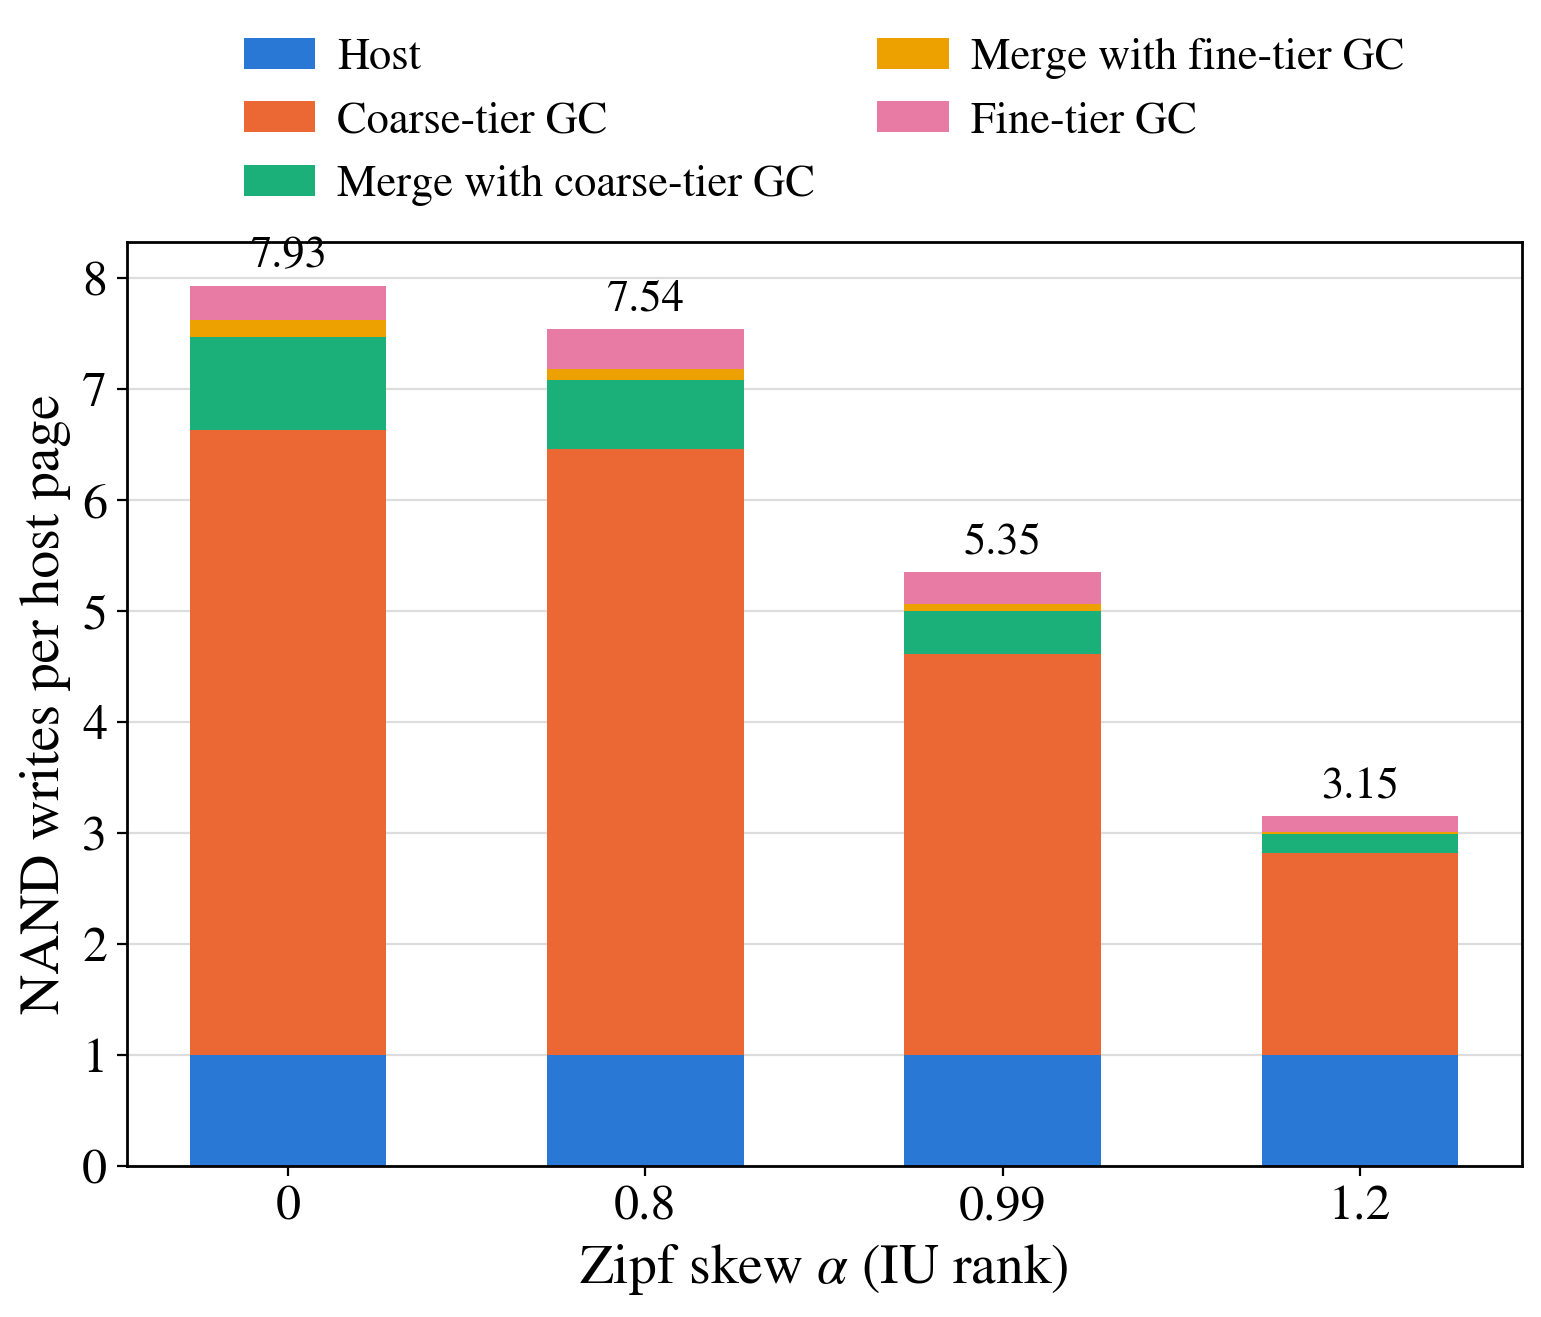
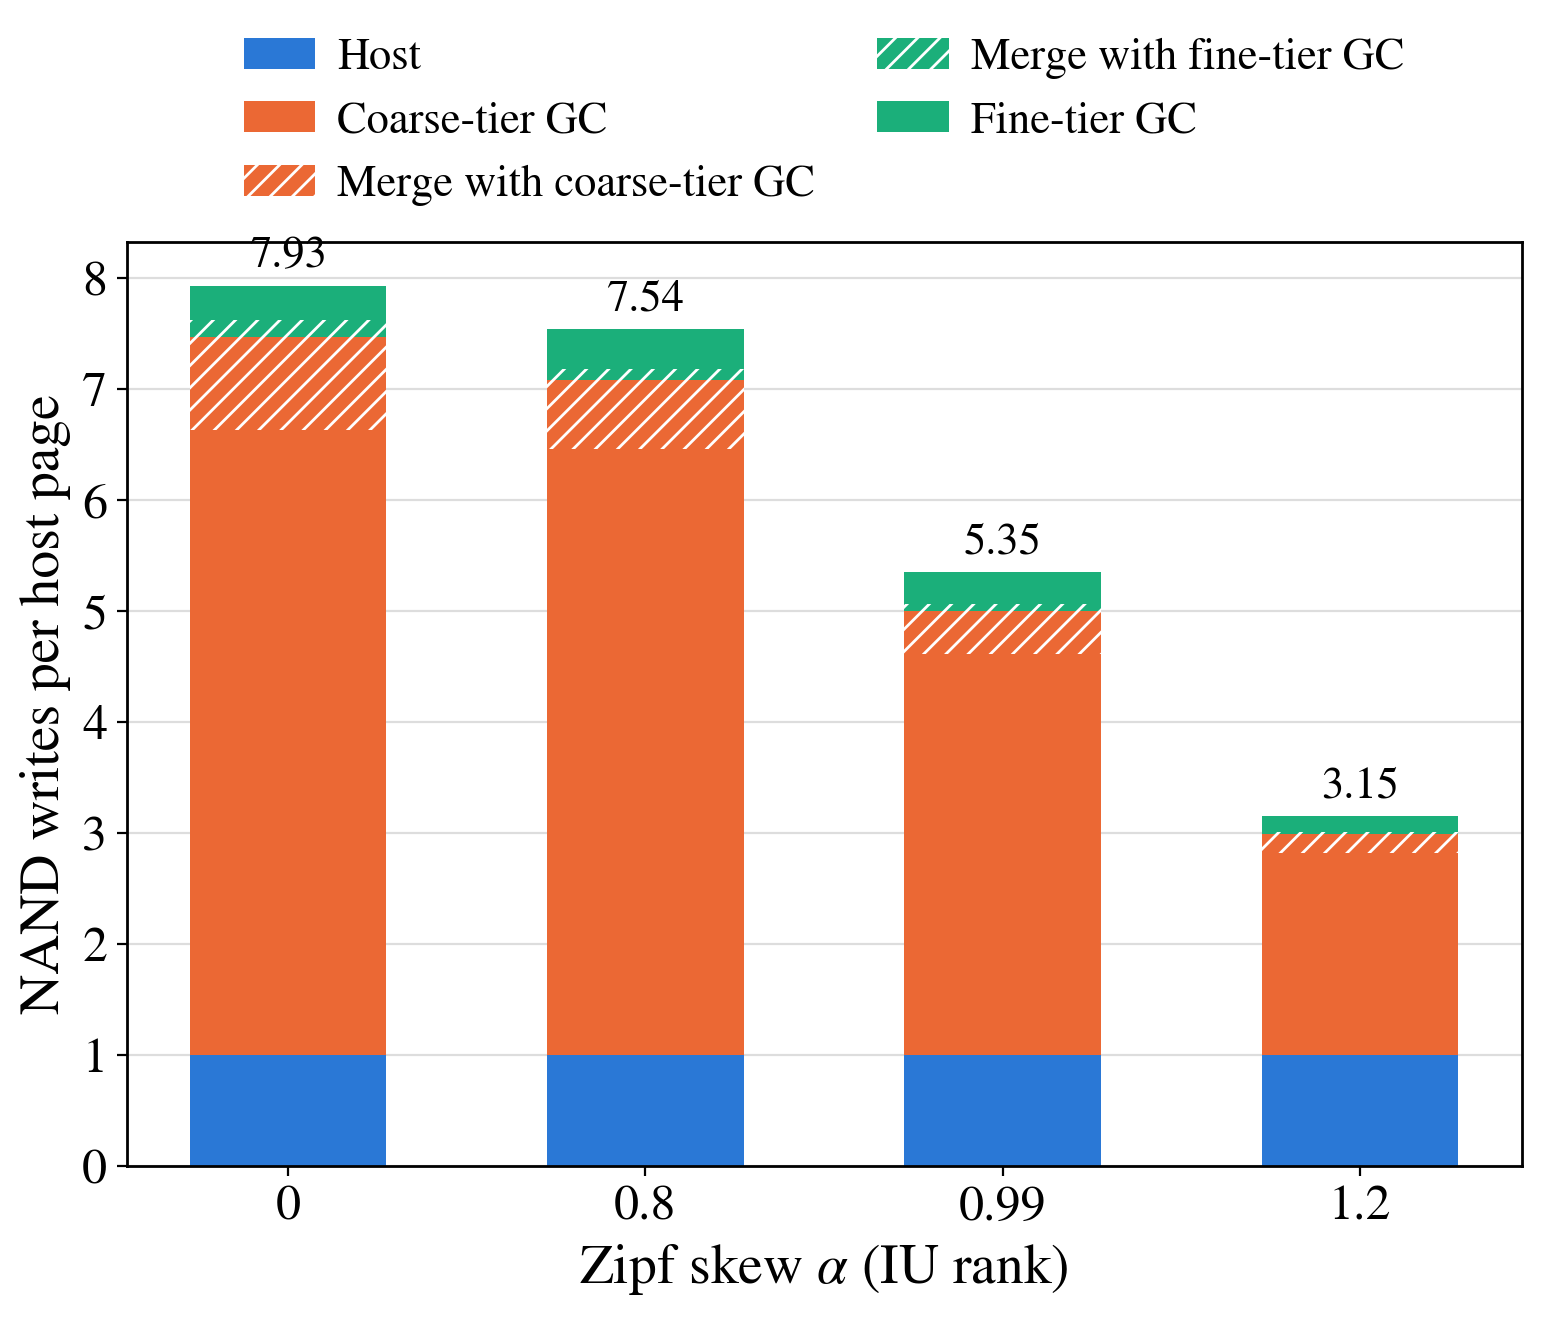
Recolor write-breakdown figures: hue = tier, hatch = merge (palette validated)

diff --git a/tools/plot.py b/tools/plot.py
@@ -186,20 +186,21 @@ def fig_ram():
 
 
 def fig_breakdown_proposed():
-    parts = [("host", "Host", "#2a78d6"),
-             ("cgc_clean", "Coarse-tier GC", "#eb6834"),
-             ("cgc_refold", "Merge with coarse-tier GC", "#1baf7a"),
-             ("fold", "Merge with fine-tier GC", "#eda100"),
-             ("finegc", "Fine-tier GC", "#e87ba4")]
+    parts = [("host", "Host", "#2a78d6", None),
+             ("cgc_clean", "Coarse-tier GC", "#eb6834", None),
+             ("cgc_refold", "Merge with coarse-tier GC", "#eb6834", "///"),
+             ("fold", "Merge with fine-tier GC", "#1baf7a", "///"),
+             ("finegc", "Fine-tier GC", "#1baf7a", None)]
     fig, ax = plt.subplots(figsize=(9, 6))
     x = np.arange(len(ZS))
     bottom = np.zeros(len(ZS))
-    for key, label, color in parts:
+    for key, label, color, hatch in parts:
         vals = []
         for z in ZS:
             r = load(CANON, f"proposed_z{z}.json")
             vals.append(r["prog"].get(key, 0) / r["host_pages"])
-        ax.bar(x, vals, 0.55, bottom=bottom, label=label, color=color)
+        ax.bar(x, vals, 0.55, bottom=bottom, label=label, color=color, hatch=hatch,
+               edgecolor="white" if hatch else "none", linewidth=0)
         bottom += np.array(vals)
     for xi, tot in zip(x, bottom):
         ax.annotate(f"{tot:.2f}", (xi, tot), ha="center", va="bottom", fontsize=16,
@@ -216,11 +217,11 @@ def fig_breakdown_proposed():
 
 def fig_breakdown_sizes():
     """Same write breakdown as fig4, for the small-heavy / large-heavy size mixes."""
-    parts = [("host", "Host", "#2a78d6"),
-             ("cgc_clean", "Coarse-tier GC", "#eb6834"),
-             ("cgc_refold", "Merge with coarse-tier GC", "#1baf7a"),
-             ("fold", "Merge with fine-tier GC", "#eda100"),
-             ("finegc", "Fine-tier GC", "#e87ba4")]
+    parts = [("host", "Host", "#2a78d6", None),
+             ("cgc_clean", "Coarse-tier GC", "#eb6834", None),
+             ("cgc_refold", "Merge with coarse-tier GC", "#eb6834", "///"),
+             ("fold", "Merge with fine-tier GC", "#1baf7a", "///"),
+             ("finegc", "Fine-tier GC", "#1baf7a", None)]
     groups = [("small-heavy\n" + r"$\alpha$=0", "small", "0"),
               ("small-heavy\n" + r"$\alpha$=0.99", "small", "0.99"),
               ("large-heavy\n" + r"$\alpha$=0", "large", "0"),
@@ -228,12 +229,13 @@ def fig_breakdown_sizes():
     fig, ax = plt.subplots(figsize=(9.5, 6))
     x = np.arange(len(groups))
     bottom = np.zeros(len(groups))
-    for key, label, color in parts:
+    for key, label, color, hatch in parts:
         vals = []
         for _, d, z in groups:
             r = load(SIZES, f"proposed_{d}_z{z}.json")
             vals.append(r["prog"].get(key, 0) / r["host_pages"])
-        ax.bar(x, vals, 0.55, bottom=bottom, label=label, color=color)
+        ax.bar(x, vals, 0.55, bottom=bottom, label=label, color=color, hatch=hatch,
+               edgecolor="white" if hatch else "none", linewidth=0)
         bottom += np.array(vals)
     for xi, tot in zip(x, bottom):
         ax.annotate(f"{tot:.2f}", (xi, tot), ha="center", va="bottom", fontsize=16,
@@ -275,21 +277,23 @@ def fig_breakdown_policies():
 
 # Unified write-source stack used by the policy-comparison figures.
 # page4k / DFTL map everything at 4 KB, so their GC is counted as fine-tier GC.
-STACK = [("host",       ["host"],               "Host",                      "#2a78d6"),
-         ("rmw",        ["rmw"],                "RMW",                       "#7a5195"),
-         ("coarse",     ["cgc_clean"],          "Coarse-tier GC",            "#eb6834"),
-         ("refold",     ["cgc_refold"],         "Merge with coarse-tier GC", "#1baf7a"),
-         ("fold",       ["fold", "unfold"],     "Merge with fine-tier GC",   "#eda100"),
-         ("fine",       ["finegc", "pgc"],      "Fine-tier GC",              "#e87ba4"),
-         ("map",        ["map"],                "Map write",                 "#4a3aa7")]
+STACK = [("host",   ["host"],           "Host",                      "#2a78d6", None),
+         ("rmw",    ["rmw"],            "RMW",                       "#4a3aa7", None),
+         ("coarse", ["cgc_clean"],      "Coarse-tier GC",            "#eb6834", None),
+         ("refold", ["cgc_refold"],     "Merge with coarse-tier GC", "#eb6834", "///"),
+         ("fold",   ["fold", "unfold"], "Merge with fine-tier GC",   "#1baf7a", "///"),
+         ("fine",   ["finegc", "pgc"],  "Fine-tier GC",              "#1baf7a", None),
+         ("map",    ["map"],            "Map write",                 "#8a5a00", None)]
 
 
 def _stack(ax, xs, recs, width=0.6, annotate=True, stack=None, legend=True):
     bottom = np.zeros(len(recs))
-    for _, keys, label, color in (stack or STACK):
+    for _, keys, label, color, hatch in (stack or STACK):
         vals = np.array([sum(r["prog"].get(k, 0) for k in keys) / r["host_pages"] for r in recs])
         if vals.max() > 0:
-            ax.bar(xs, vals, width, bottom=bottom, color=color, label=label if legend else None)
+            ax.bar(xs, vals, width, bottom=bottom, color=color, hatch=hatch,
+                   edgecolor="white" if hatch else "none", linewidth=0,
+                   label=label if legend else None)
         bottom += vals
     if annotate:
         for x, t in zip(xs, bottom):
@@ -335,11 +339,11 @@ def fig_breakdown_sizes_policies():
     save(fig, "fig5b_breakdown_sizes_policies")
 
 # Write sources of the legacy hybrid / extent baselines (merge-based, no fine/coarse tiers).
-STACK_LEGACY = [("host",    ["host"],         "Host",           "#2a78d6"),
-                ("full",    ["fullmerge"],    "Full merge",     "#eb6834"),
-                ("partial", ["partialmerge"], "Partial merge",  "#eda100"),
-                ("gc",      ["pgc"],          "GC relocation",  "#e87ba4"),
-                ("map",     ["map"],          "Map write",      "#4a3aa7")]
+STACK_LEGACY = [("host",    ["host"],         "Host",           "#2a78d6", None),
+                ("full",    ["fullmerge"],    "Full merge",     "#eb6834", None),
+                ("partial", ["partialmerge"], "Partial merge",  "#eb6834", "///"),
+                ("gc",      ["pgc"],          "GC relocation",  "#1baf7a", None),
+                ("map",     ["map"],          "Map write",      "#8a5a00", None)]
 
 
 def fig_breakdown_legacy():

diff --git a/SPEC.md b/SPEC.md
@@ -401,3 +401,9 @@ Feng et al., "Mapping Granularity Adaptive FTL Based on Flash Page Re-programmin
 - 두 기법은 **상보적**이며 겹치지 않는다: 둘 다 켜면 항상 각각보다 좋거나 같다(α=1.2만 +0.3% 예외).
 - fold 쪽이 기여가 크고(특히 조각이 많은 workload), 쓰기 시점 규칙은 그 위에 −1~7%를 더한다.
 - 둘 다 끄면(= 조각을 fine에 넣고 coarse GC의 refold로만 정리) WAF가 6~32% 나빠진다 → refold만으로는 부족하다는 근거.
+
+## 그림 색 인코딩 (v2.7)
+쓰기 분해 그림에서 **색 = 어느 티어의 작업인가, 해칭(`///`) = merge 여부**로 이중 인코딩한다.
+- Host `#2a78d6`(파랑), RMW `#4a3aa7`(보라), **coarse 티어 `#eb6834`(주황)** — Coarse-tier GC(단색) / Merge with coarse-tier GC(해칭), **fine 티어 `#1baf7a`(청록)** — Fine-tier GC(단색) / Merge with fine-tier GC(해칭), Map write `#8a5a00`(갈색).
+- fig5c(legacy)도 동일 규칙: Full merge(주황 단색) / Partial merge(주황 해칭) / GC relocation(청록) / Map write(갈색).
+- 이전에는 7개 색을 다 다르게 썼는데 주황과 노랑, 두 보라가 구분이 안 됐다. 색 5개로 줄이고 dataviz 검증 스크립트(`validate_palette.py`)로 통과 확인: lightness band / chroma floor / CVD 분리 / normal-vision floor 전부 PASS(청록의 대비 2.74로 WARN 하나 — 막대 위 값 라벨과 표가 보조 인코딩 역할).
